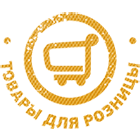
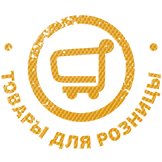
Замена картинок на сыре

diff --git a/assets/css/custom.css b/assets/css/custom.css
@@ -5,3 +5,7 @@ a.recommendation__block__title-mini {
 .recommendation__block .icon {
     z-index: 1;
 }
+
+.cheese-circle .icon[data-number] {
+    opacity: 1;
+}
